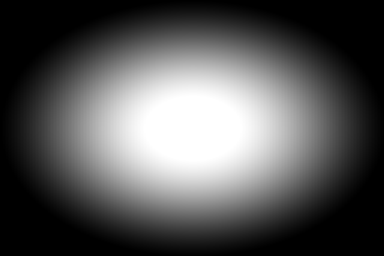
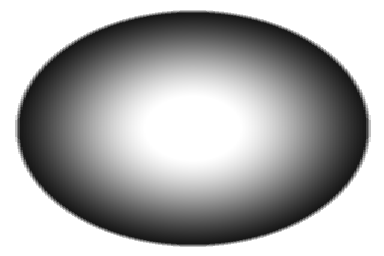
BASE GAME WITHOUT MAIN MECHANIC DONE

diff --git a/devex/platform.py b/devex/platform.py
@@ -1,20 +1,23 @@
 import random
 import pygame
-from .utils import iso_to_screen, load_scale_3, Time
+from enum import Enum, auto
+from .utils import get_font, iso_to_screen, load_scale_3, Time, Animation
+from .bloom import Bloom
 from .shared import Shared
 from .enemies import PotatoInt, Enemy
+from logit import log
 
 
 class Block:
     img = load_scale_3("assets/brick_block_1.png")
 
     def __init__(self, iso_pos) -> None:
-        self.iso_pos = iso_pos[0] + 10, iso_pos[1] + 1
+        self.iso_pos = iso_pos
         self.shared = Shared()
         self.rect = self.img.get_rect()
         self.screen_pos = iso_to_screen(iso_pos, self.rect)
         self.pos = pygame.Vector2(self.screen_pos[0], self.screen_pos[1] + 150)
-        self.start_timer = Time(random.uniform(0, 5))
+        self.start_timer = Time(random.uniform(0, 3))
         self.done = False
         self.done_waiting = False
         self.speed = 500
@@ -37,30 +40,148 @@ class Block:
         self.shared.screen.blit(self.img, self.shared.camera.transform(self.pos))
 
 
+class TorchSide(Enum):
+    UP = auto()
+    DOWN = auto()
+    LEFT = auto()
+    RIGHT = auto()
+
+
+class Torch:
+    FRAMES = tuple(load_scale_3(f"assets/torch-{i}.png") for i in range(1, 4))
+    FONT = get_font("assets/Hack/Hack Regular Nerd Font Complete Mono.ttf", 16)
+    BRIDGE_GAP = 5
+
+    def __init__(self, origin: tuple[int, int], side: TorchSide, world_side) -> None:
+        self.side = world_side
+        self.origin = origin
+        self.path_side = side
+        self.gen_iso_coord()
+        self.anim = Animation(Torch.FRAMES, 0.3)
+        self.bloom = Bloom(0.6, wave_speed=0.01, expansion_factor=20)
+        self.shared = Shared()
+        self.screen_coord = iso_to_screen(
+            self.iso_coord, pygame.Rect(0, 0, 32 * 3, 32 * 3)
+        )
+        self.rect = self.anim.current_frame.get_rect(midbottom=self.screen_coord)
+        self.create_surf = Torch.FONT.render("[+] CREATE", True, "purple", "white")
+        self.create_surf_rect = self.create_surf.get_rect(midbottom=self.rect.midtop)
+        self.near = False
+        self.used = False
+
+    def get_inverse_side(self):
+        if self.path_side == TorchSide.UP:
+            return TorchSide.DOWN
+        if self.path_side == TorchSide.DOWN:
+            return TorchSide.DOWN
+        if self.path_side == TorchSide.RIGHT:
+            return TorchSide.LEFT
+        if self.path_side == TorchSide.LEFT:
+            return TorchSide.RIGHT
+
+    def gen_iso_coord(self):
+        if self.path_side == TorchSide.UP:
+            self.iso_coord = (self.side // 2), 1
+            self.add_origin()
+            self.new_plat_iso_coord = (
+                self.iso_coord[0],
+                self.iso_coord[1] - Torch.BRIDGE_GAP - self.side,
+            )
+        elif self.path_side == TorchSide.LEFT:
+            self.iso_coord = 2, (self.side // 2)
+            self.add_origin()
+            self.new_plat_iso_coord = (
+                self.iso_coord[0] - Torch.BRIDGE_GAP - self.side,
+                self.iso_coord[1],
+            )
+        elif self.path_side == TorchSide.DOWN:
+            self.iso_coord = (
+                (self.side // 2),
+                self.side - 2,
+            )
+            self.add_origin()
+            self.new_plat_iso_coord = (
+                self.iso_coord[0],
+                self.iso_coord[1] + Torch.BRIDGE_GAP,
+            )
+        elif self.path_side == TorchSide.RIGHT:
+            self.iso_coord = (
+                self.side - 1,
+                (self.side // 2),
+            )
+            self.add_origin()
+            self.new_plat_iso_coord = (
+                self.iso_coord[0] + Torch.BRIDGE_GAP,
+                self.iso_coord[1],
+            )
+
+    def add_origin(self):
+        self.iso_coord = (
+            self.iso_coord[0] + self.origin[0],
+            self.iso_coord[1] + self.origin[1],
+        )
+
+    def check_near(self):
+        self.near = self.shared.player.rect.colliderect(self.rect)
+
+    def on_create_chunk(self):
+        for event in self.shared.events:
+            if event.type == pygame.KEYDOWN:
+                if event.key == pygame.K_EQUALS and self.near:
+                    self.used = True
+
+    def update(self):
+        self.anim.update()
+        self.bloom.update(self.shared.camera.transform(self.rect.center))
+
+        self.check_near()
+        self.on_create_chunk()
+
+    def draw(self):
+        self.shared.screen.blit(
+            self.anim.current_frame, self.shared.camera.transform(self.rect)
+        )
+        self.bloom.draw(self.shared.overlay)
+
+        if self.near:
+            self.shared.screen.blit(
+                self.create_surf, self.shared.camera.transform(self.create_surf_rect)
+            )
+
+
 class BrokenPlatform:
     """A platform with a random spec"""
 
-    def __init__(self) -> None:
-        self.side = random.randrange(8, 13)
+    def __init__(self, side: int, origin: tuple[int, int]) -> None:
+        self.origin = origin
+        self.side = side
         self.generate_base()
         self.chip_extra_sides()
         self.generate_enemies()
+        self.generate_torches()
         self.done = False
+
+    def generate_torches(self) -> None:
+        self.torches: list[Torch] = [
+            Torch(self.origin, side, self.side) for side in TorchSide
+        ]
 
     def generate_enemies(self):
         n_enemies = int(self.side / 2.5)
-        self.enemies = []
+        self.enemies: list[Enemy] = []
         for _ in range(n_enemies):
             enemy_type = PotatoInt
             # enemy_type = random.choice((PotatoInt, ...))
-            self.enemies.append(PotatoInt(self.side, self.blocks[0][0].rect))
+            self.enemies.append(
+                PotatoInt(self.side, self.blocks[0][0].rect, self.origin)
+            )
 
     def generate_base(self):
         self.blocks = []
         for y in range(self.side):
             row = []
             for x in range(self.side):
-                row.append(Block((x, y)))
+                row.append(Block((x + self.origin[0], y + self.origin[1])))
             self.blocks.append(row)
 
     def chip_extra_sides(self):
@@ -87,9 +208,14 @@ class BrokenPlatform:
         for enemy in self.enemies:
             enemy.update()
 
+    def update_torches(self):
+        for torch in self.torches:
+            torch.update()
+
     def update(self):
         self.update_blocks()
         if self.done:
+            self.update_torches()
             self.update_enemies()
         self.done = self.get_done()
 
@@ -102,16 +228,17 @@ class BrokenPlatform:
         for enemy in self.enemies:
             enemy.draw()
 
-    def draw(self):
-        self.draw_blocks()
-        if self.done:
-            self.draw_enemies()
+    def draw_torches(self):
+        for torch in self.torches:
+            torch.draw()
 
 
 class PlatformManager:
     def __init__(self) -> None:
         self.shared = Shared()
-        self.platforms: list[BrokenPlatform] = [BrokenPlatform()]
+        self.platforms: list[BrokenPlatform] = [
+            BrokenPlatform(side=random.randrange(8, 13), origin=(0, 0))
+        ]
         self.current_chunk_index = 0
         self.shared.current_chunk = self.platforms[self.current_chunk_index]
         self.done = False
@@ -121,10 +248,39 @@ class PlatformManager:
             platform.update()
         self.done = all(platform.done for platform in self.platforms)
 
+    def create_new_plat(self, torch: Torch, platform: BrokenPlatform):
+        side = random.randrange(7, 10)
+        new_plat = BrokenPlatform(
+            side,
+            origin=torch.new_plat_iso_coord,
+        )
+        for new_torch in new_plat.torches:
+            if new_torch.path_side == torch.get_inverse_side():
+                new_plat.torches.remove(new_torch)
+                break
+        self.platforms.append(new_plat)
+        platform.torches.clear()
+
+    def update_torches(self):
+        for platform in self.platforms[:]:
+            for torch in platform.torches:
+                if torch.used:
+                    self.create_new_plat(torch, platform)
+                    return
+
     def update(self):
         self.update_platforms()
+        self.update_torches()
+
+    def draw_torches(self):
+        for platform in self.platforms:
+            platform.draw_torches()
 
     def draw(self):
         for platform in self.platforms:
-            platform.draw()
+            platform.draw_blocks()
         self.shared.provisional_chunk = self.shared.screen.copy()
+
+        for platform in self.platforms:
+            if platform.done:
+                platform.draw_enemies()

diff --git a/devex/enemies.py b/devex/enemies.py
@@ -18,6 +18,7 @@ class Enemy(ABC):
         broken_platform_size: int,
         tile_rect: pygame.Rect,
         enemy_speed: float,
+        origin: tuple[int, int],
     ) -> None:
         self.shared = Shared()
         self.data_type = data_type
@@ -25,6 +26,7 @@ class Enemy(ABC):
         self.image = image
         self.rect = self.image.get_rect()
         self.broken_platform_size = broken_platform_size
+        self.origin = origin
 
         """
         So, the iso_pos is basically gonna hold a value such as
@@ -49,13 +51,14 @@ class Enemy(ABC):
         x_or_y: int = random.randint(0, 1)
 
         # Applies the parameters
-        axis_range = range(1, n_steps)
+        axis_range_x = range(1 + self.origin[0], n_steps + self.origin[0])
+        axis_range_y = range(1 + self.origin[1], n_steps + self.origin[1])
 
         # Produces the result
         if x_or_y:
-            return [(self.iso_pos[0], axis) for axis in axis_range]
+            return [(self.iso_pos[0], axis) for axis in axis_range_y]
 
-        return [(axis, self.iso_pos[1]) for axis in axis_range]
+        return [(axis, self.iso_pos[1]) for axis in axis_range_x]
 
     def set_font_surf(self):
         self.font_surf = self.font.render(str(self.value), True, self.data_font_color)
@@ -80,10 +83,12 @@ class PotatoInt(Enemy):
     IMAGE = load_scale_3("assets/integer.png")
     SPEED = 30
 
-    def __init__(self, broken_platform_size: int, tile_rect: pygame.Rect) -> None:
+    def __init__(
+        self, broken_platform_size: int, tile_rect: pygame.Rect, origin: tuple[int, int]
+    ) -> None:
         iso_pos = (
-            random.randrange(2, broken_platform_size - 2),
-            random.randrange(2, broken_platform_size - 2),
+            random.randrange(2, broken_platform_size - 2) + origin[0],
+            random.randrange(2, broken_platform_size - 2) + origin[1],
         )
         super().__init__(
             int,
@@ -93,6 +98,7 @@ class PotatoInt(Enemy):
             broken_platform_size,
             tile_rect,
             PotatoInt.SPEED,
+            origin,
         )
 
         self.value = random.randrange(100, 10000)

diff --git a/devex/player.py b/devex/player.py
@@ -9,9 +9,14 @@ class Player:
         self.shared = Shared()
         self.pos = origin.copy()
         self.frames = [load_scale_3(f"assets/player-anim-{n}.png") for n in range(1, 7)]
+        self.birby_frames = [
+            load_scale_3(f"assets/player-birb-{n}.png") for n in range(1, 3)
+        ]
         self.rect = self.frames[0].get_rect(midbottom=self.pos)
-        self.anim = Animation(self.frames, 0.3)
-        self.bloom = Bloom(2)
+        self.idle_anim = Animation(self.frames, 0.3)
+        self.bloom = Bloom(2, wave_speed=0.02, expansion_factor=70)
+        self.birb_anim = Animation(self.birby_frames, 0.3)
+        self.anim = self.idle_anim
 
     def update(self):
         self.anim.update()
@@ -23,6 +28,16 @@ class Player:
 
         self.rect.midbottom = self.pos
         self.bloom.update(self.shared.camera.transform(self.rect.center))
+
+        if (
+            self.shared.provisional_chunk.get_at(
+                tuple(map(int, self.shared.camera.transform(self.rect.midbottom)))
+            )
+            != self.shared.cursor.surface_color
+        ):
+            self.anim = self.birb_anim
+        else:
+            self.anim = self.idle_anim
 
     def draw(self):
         self.shared.screen.blit(

diff --git a/devex/bloom.py b/devex/bloom.py
@@ -11,18 +11,23 @@ def process_bloom(img: pygame.Surface) -> pygame.Surface:
 
 
 class Bloom:
-    IMAGE = pygame.image.load("assets/light.png").convert()
+    IMAGE = pygame.image.load("assets/light_v2.png").convert_alpha()
     # IMAGE = process_bloom(IMAGE)
 
-    def __init__(self, size_factor: float | int) -> None:
+    def __init__(
+        self, size_factor: float | int, wave_speed: float, expansion_factor: int
+    ) -> None:
         self.size_factor = size_factor
         self.original_surf = scale_by(self.IMAGE, size_factor)
         self.surf = self.original_surf.copy()
         self.rect = self.surf.get_rect()
-        self.wave = SinWave(0.02)
+        self.wave = SinWave(wave_speed)
+        self.expansion_factor = expansion_factor
 
     def update(self, pos):
-        self.surf = scale_add(self.original_surf, self.wave.val() * 70)
+        self.surf = scale_add(
+            self.original_surf, self.wave.val() * self.expansion_factor
+        )
         self.rect = self.surf.get_rect()
         self.rect.center = pos
 

diff --git a/devex/gamestate.py b/devex/gamestate.py
@@ -28,6 +28,7 @@ class GameState:
         self.plat.draw()
         if self.plat.done:
             self.player.draw()
+            self.plat.draw_torches()
             self.shared.screen.blit(
                 self.shared.overlay, (0, 0), special_flags=pygame.BLEND_RGBA_MIN
             )

diff --git a/test.py b/test.py
@@ -41,7 +41,7 @@ while True:
 
     overlay.fill("black")
     overlay.blit(bloom, bloom_rect)
-    screen.blit(overlay, (0, 0), special_flags=pygame.BLEND_RGBA_MIN)
+    screen.blit(overlay, (0, 0), special_flags=pygame.BLEND_RGBA_SUB)
 
     pygame.display.update()
     clock.tick(60)
